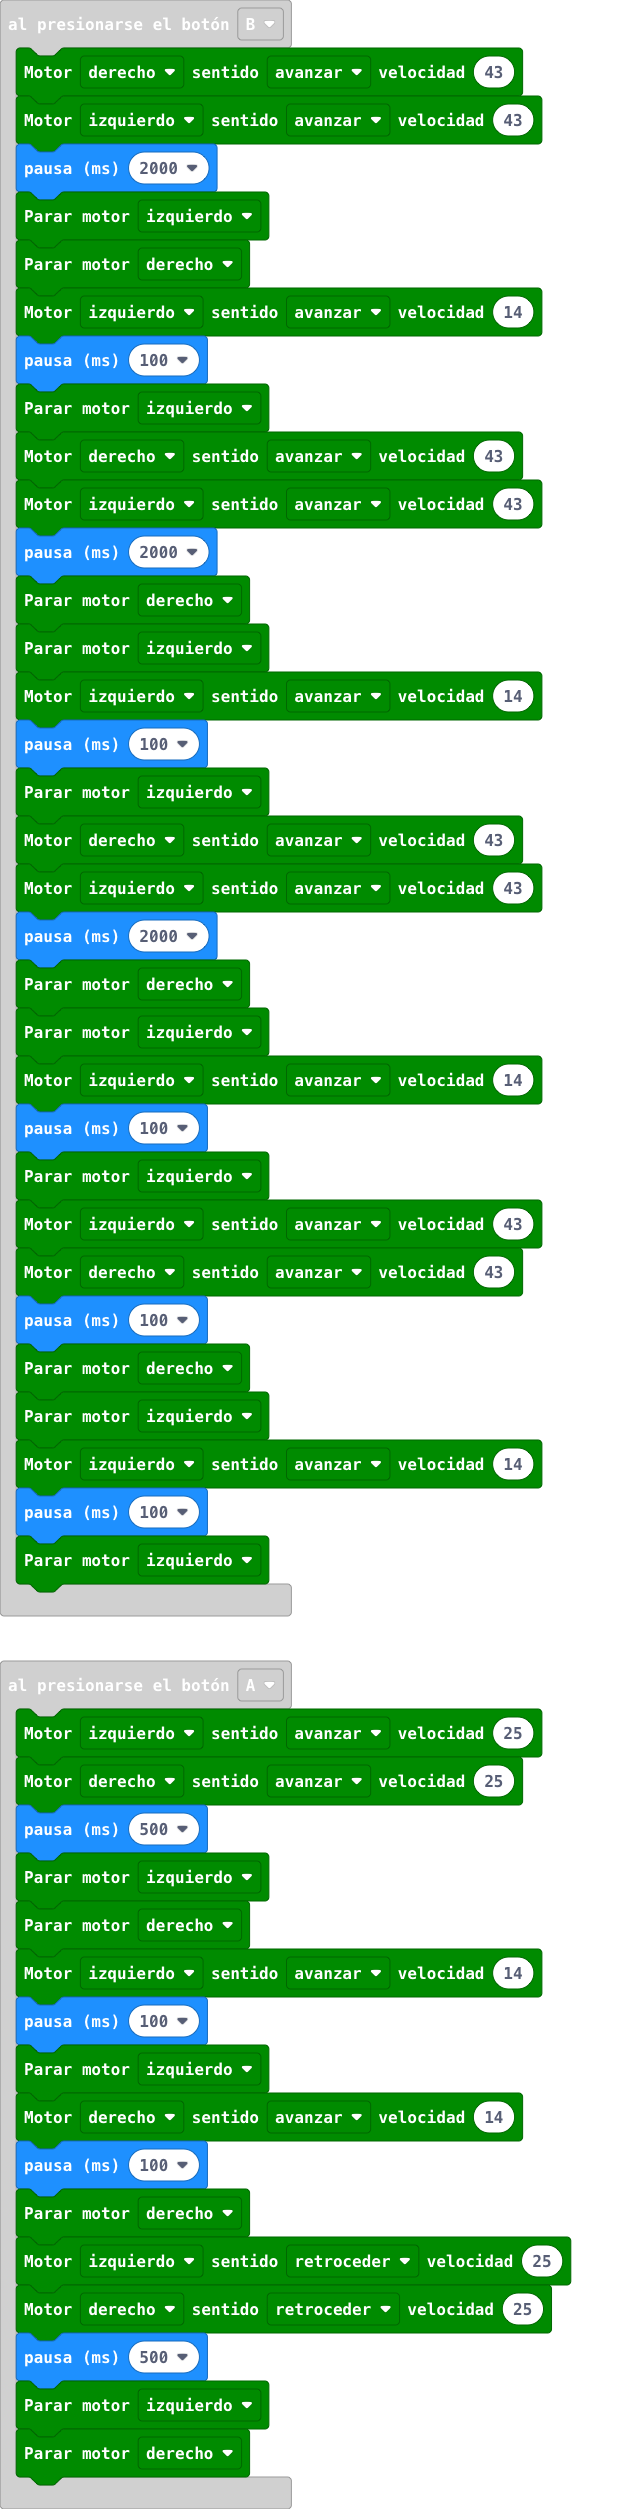
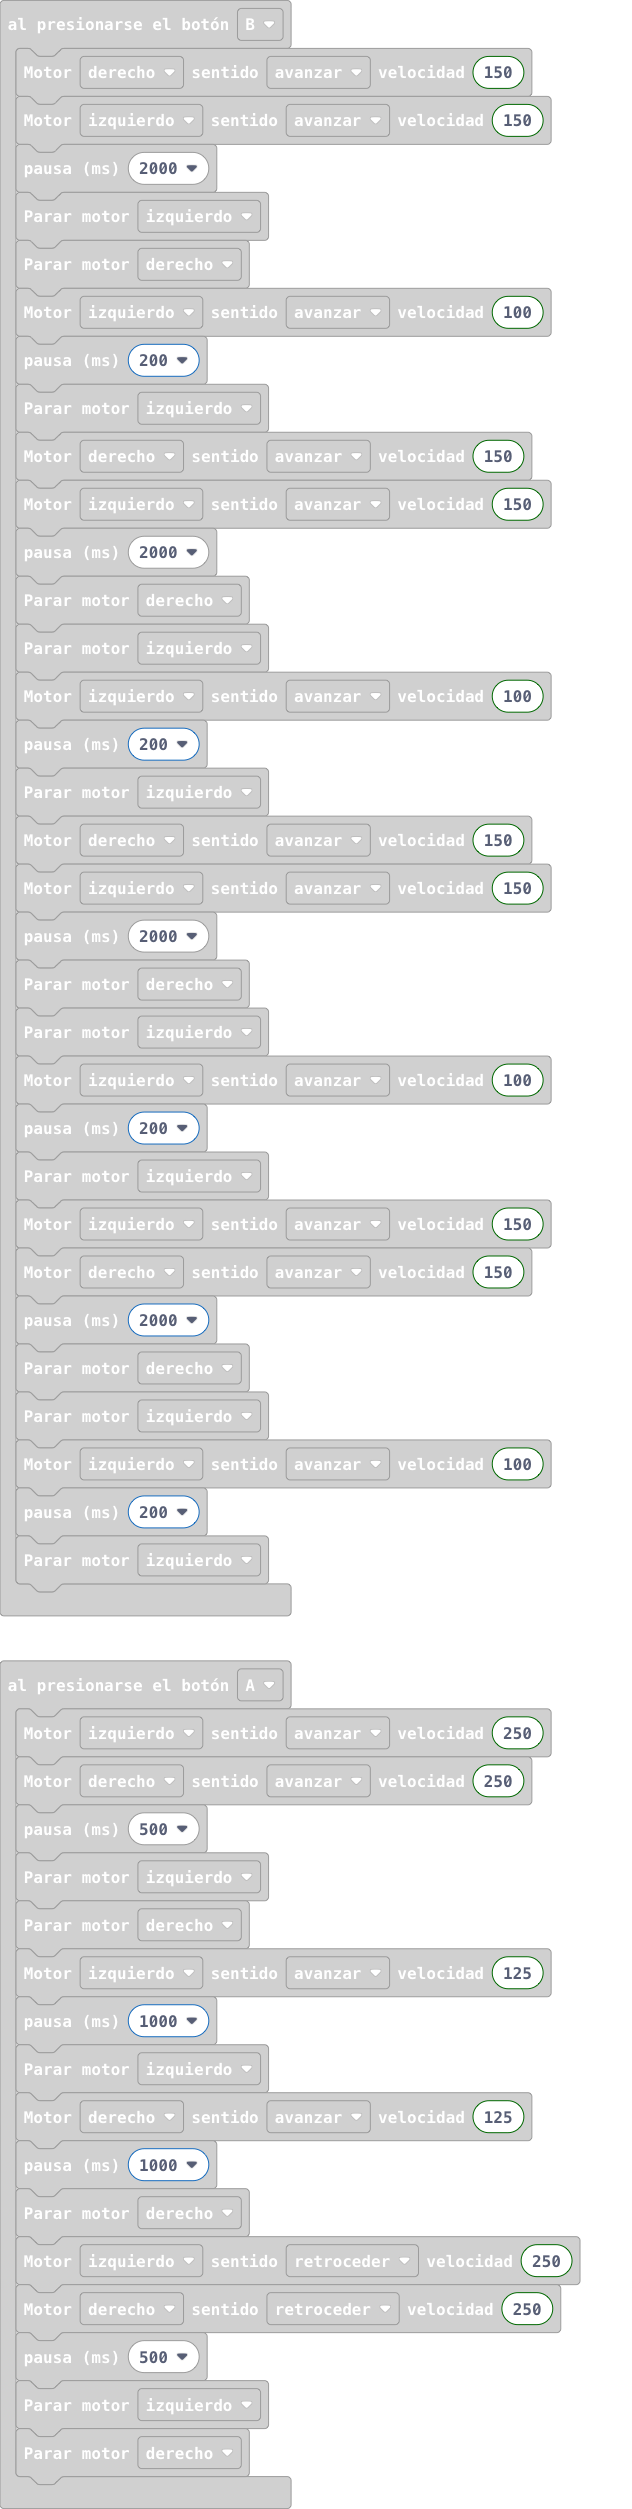
Actualizar main.blocks, main.ts

diff --git a/main.ts b/main.ts
@@ -1,52 +1,52 @@
 input.onButtonPressed(Button.A, function () {
-    maqueen.motorRun(maqueen.Motors.M1, maqueen.Dir.CW, 25)
-    maqueen.motorRun(maqueen.Motors.M2, maqueen.Dir.CW, 25)
+    maqueen.motorRun(maqueen.Motors.M1, maqueen.Dir.CW, 250)
+    maqueen.motorRun(maqueen.Motors.M2, maqueen.Dir.CW, 250)
     basic.pause(500)
     maqueen.motorStop(maqueen.Motors.M1)
     maqueen.motorStop(maqueen.Motors.M2)
-    maqueen.motorRun(maqueen.Motors.M1, maqueen.Dir.CW, 14)
-    basic.pause(100)
+    maqueen.motorRun(maqueen.Motors.M1, maqueen.Dir.CW, 125)
+    basic.pause(1000)
     maqueen.motorStop(maqueen.Motors.M1)
-    maqueen.motorRun(maqueen.Motors.M2, maqueen.Dir.CW, 14)
-    basic.pause(100)
+    maqueen.motorRun(maqueen.Motors.M2, maqueen.Dir.CW, 125)
+    basic.pause(1000)
     maqueen.motorStop(maqueen.Motors.M2)
-    maqueen.motorRun(maqueen.Motors.M1, maqueen.Dir.CCW, 25)
-    maqueen.motorRun(maqueen.Motors.M2, maqueen.Dir.CCW, 25)
+    maqueen.motorRun(maqueen.Motors.M1, maqueen.Dir.CCW, 250)
+    maqueen.motorRun(maqueen.Motors.M2, maqueen.Dir.CCW, 250)
     basic.pause(500)
     maqueen.motorStop(maqueen.Motors.M1)
     maqueen.motorStop(maqueen.Motors.M2)
 })
 input.onButtonPressed(Button.B, function () {
-    maqueen.motorRun(maqueen.Motors.M2, maqueen.Dir.CW, 43)
-    maqueen.motorRun(maqueen.Motors.M1, maqueen.Dir.CW, 43)
+    maqueen.motorRun(maqueen.Motors.M2, maqueen.Dir.CW, 150)
+    maqueen.motorRun(maqueen.Motors.M1, maqueen.Dir.CW, 150)
     basic.pause(2000)
     maqueen.motorStop(maqueen.Motors.M1)
     maqueen.motorStop(maqueen.Motors.M2)
-    maqueen.motorRun(maqueen.Motors.M1, maqueen.Dir.CW, 14)
-    basic.pause(100)
+    maqueen.motorRun(maqueen.Motors.M1, maqueen.Dir.CW, 100)
+    basic.pause(200)
     maqueen.motorStop(maqueen.Motors.M1)
-    maqueen.motorRun(maqueen.Motors.M2, maqueen.Dir.CW, 43)
-    maqueen.motorRun(maqueen.Motors.M1, maqueen.Dir.CW, 43)
+    maqueen.motorRun(maqueen.Motors.M2, maqueen.Dir.CW, 150)
+    maqueen.motorRun(maqueen.Motors.M1, maqueen.Dir.CW, 150)
     basic.pause(2000)
     maqueen.motorStop(maqueen.Motors.M2)
     maqueen.motorStop(maqueen.Motors.M1)
-    maqueen.motorRun(maqueen.Motors.M1, maqueen.Dir.CW, 14)
-    basic.pause(100)
+    maqueen.motorRun(maqueen.Motors.M1, maqueen.Dir.CW, 100)
+    basic.pause(200)
     maqueen.motorStop(maqueen.Motors.M1)
-    maqueen.motorRun(maqueen.Motors.M2, maqueen.Dir.CW, 43)
-    maqueen.motorRun(maqueen.Motors.M1, maqueen.Dir.CW, 43)
+    maqueen.motorRun(maqueen.Motors.M2, maqueen.Dir.CW, 150)
+    maqueen.motorRun(maqueen.Motors.M1, maqueen.Dir.CW, 150)
     basic.pause(2000)
     maqueen.motorStop(maqueen.Motors.M2)
     maqueen.motorStop(maqueen.Motors.M1)
-    maqueen.motorRun(maqueen.Motors.M1, maqueen.Dir.CW, 14)
-    basic.pause(100)
+    maqueen.motorRun(maqueen.Motors.M1, maqueen.Dir.CW, 100)
+    basic.pause(200)
     maqueen.motorStop(maqueen.Motors.M1)
-    maqueen.motorRun(maqueen.Motors.M1, maqueen.Dir.CW, 43)
-    maqueen.motorRun(maqueen.Motors.M2, maqueen.Dir.CW, 43)
-    basic.pause(100)
+    maqueen.motorRun(maqueen.Motors.M1, maqueen.Dir.CW, 150)
+    maqueen.motorRun(maqueen.Motors.M2, maqueen.Dir.CW, 150)
+    basic.pause(2000)
     maqueen.motorStop(maqueen.Motors.M2)
     maqueen.motorStop(maqueen.Motors.M1)
-    maqueen.motorRun(maqueen.Motors.M1, maqueen.Dir.CW, 14)
-    basic.pause(100)
+    maqueen.motorRun(maqueen.Motors.M1, maqueen.Dir.CW, 100)
+    basic.pause(200)
     maqueen.motorStop(maqueen.Motors.M1)
 })
